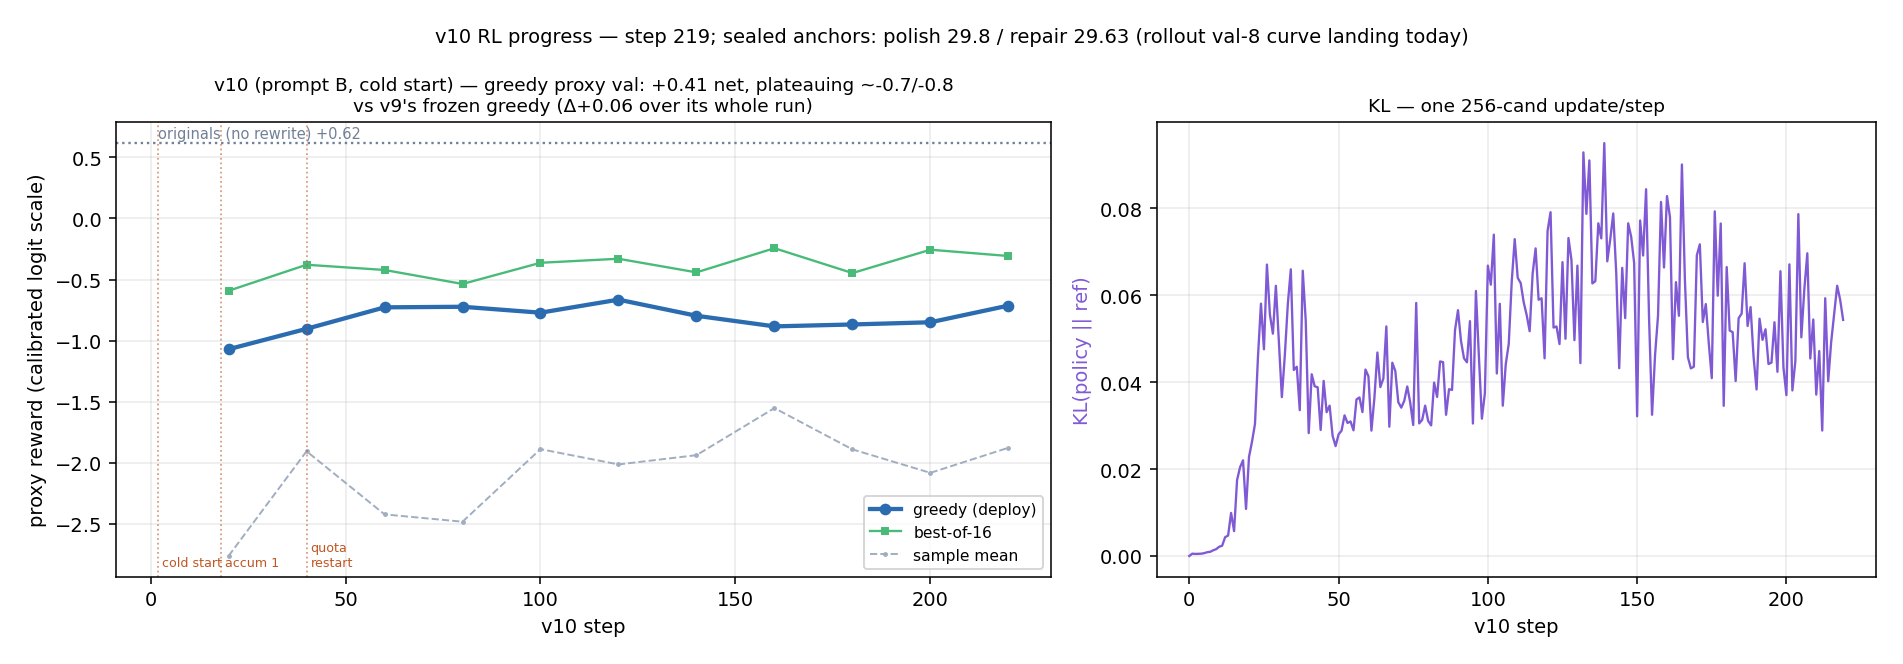
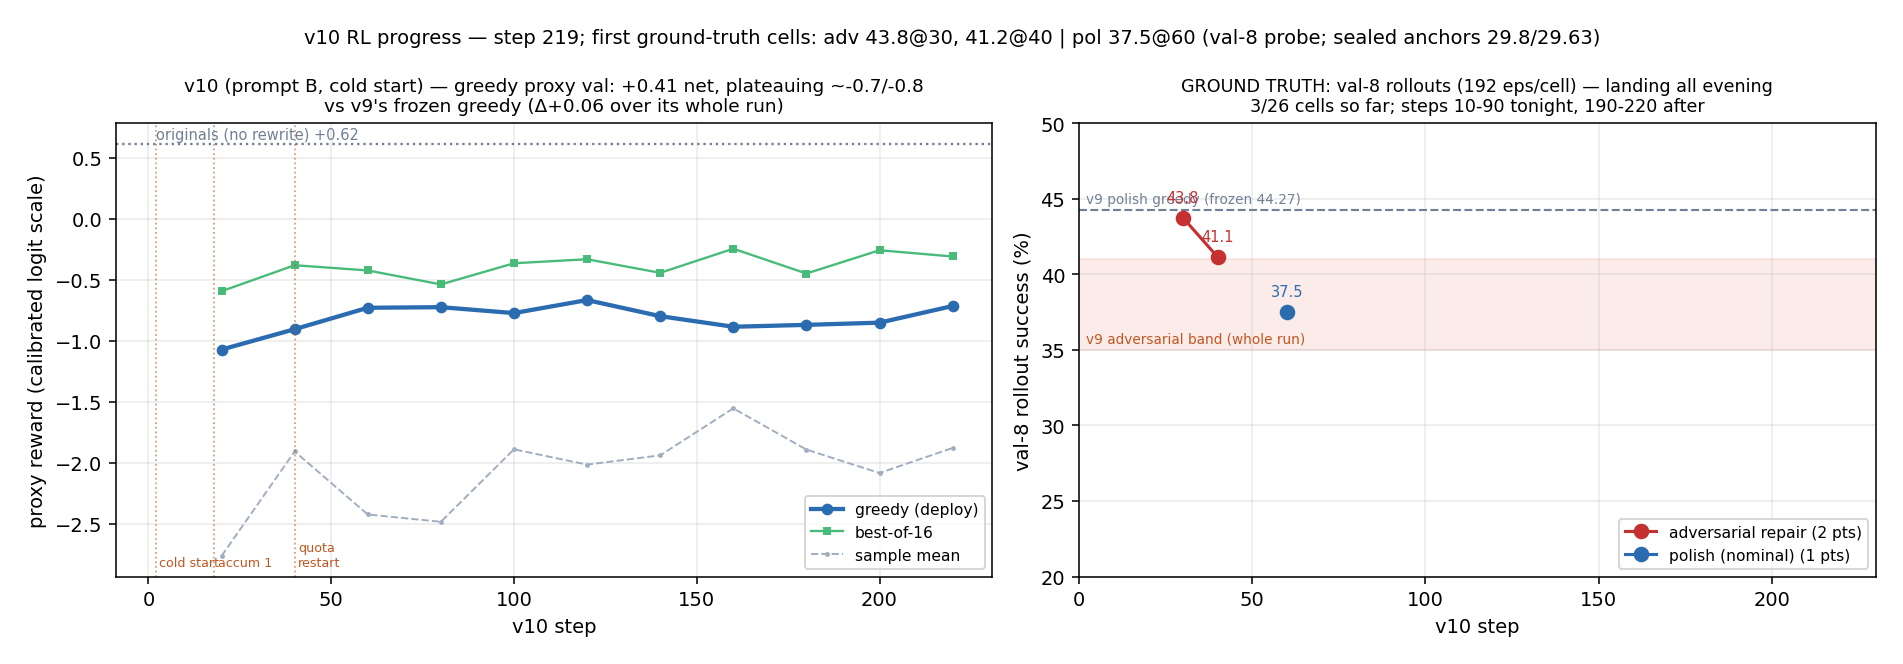
v10 progress chart: first ground-truth rollout cells (adv 43.8@30/41.2@40, pol 37.5@60)

diff --git a/scripts/make_v10_progress.py b/scripts/make_v10_progress.py
@@ -14,7 +14,9 @@ rows = [json.loads(l) for l in open(LOG)]
 vals = sorted((r for r in rows if r.get("type") == "val"), key=lambda r: r["step"])
 tr = sorted((r for r in rows if r.get("kl") is not None), key=lambda r: r["step"])
 
-fig, (a1, a2) = plt.subplots(1, 2, figsize=(13.5, 4.6), gridspec_kw={"width_ratios": [1.3, 1]})
+import glob
+cells = [json.load(open(f)) for f in glob.glob("results/analysis/v10cells/*.json")]
+fig, (a1, a2) = plt.subplots(1, 2, figsize=(13.5, 4.6), gridspec_kw={"width_ratios": [1.1, 1]})
 
 s = [v["step"] for v in vals]
 a1.axhline(vals[0]["mean_orig_reward"], ls=":", color="#718096", lw=1.2)
@@ -35,14 +37,25 @@ a1.set_title("v10 (prompt B, cold start) — greedy proxy val: +0.41 net, platea
 a1.legend(fontsize=8, loc="lower right")
 a1.grid(alpha=0.25)
 
-ts = [d["step"] for d in tr]
-a2.plot(ts, [d["kl"] for d in tr], color="#805ad5", lw=1.2)
+a2.axhspan(35, 41, color="#e2725b", alpha=0.13)
+a2.text(2, 35.5, "v9 adversarial band (whole run)", fontsize=7, color="#c05621")
+a2.axhline(44.27, ls="--", color="#718096", lw=1.1)
+a2.text(2, 44.7, "v9 polish greedy (frozen 44.27)", fontsize=7, color="#718096")
+for cond, color, lbl in [("v10_adv", "#c53030", "adversarial repair"), ("v10_pol", "#2b6cb0", "polish (nominal)")]:
+    pts = sorted([(c["step"], c["pooled"]) for c in cells if c["probe"] == cond])
+    if pts:
+        a2.plot([p[0] for p in pts], [p[1] for p in pts], "o-", color=color, ms=7, lw=1.6, label=f"{lbl} ({len(pts)} pts)")
+        for x, y in pts:
+            a2.annotate(f"{y:.1f}", (x, y), textcoords="offset points", xytext=(0, 8), fontsize=7.5, ha="center", color=color)
+a2.set_xlim(0, 230)
+a2.set_ylim(20, 50)
 a2.set_xlabel("v10 step")
-a2.set_ylabel("KL(policy || ref)", color="#805ad5")
-a2.set_title("KL — one 256-cand update/step", fontsize=9.5)
+a2.set_ylabel("val-8 rollout success (%)")
+a2.set_title("GROUND TRUTH: val-8 rollouts (192 eps/cell) — landing all evening\n3/26 cells so far; steps 10-90 tonight, 190-220 after", fontsize=9)
+a2.legend(fontsize=8, loc="lower right")
 a2.grid(alpha=0.25)
 
-fig.suptitle("v10 RL progress — step %d; sealed anchors: polish 29.8 / repair 29.63 (rollout val-8 curve landing today)"
+fig.suptitle("v10 RL progress — step %d; first ground-truth cells: adv 43.8@30, 41.2@40 | pol 37.5@60 (val-8 probe; sealed anchors 29.8/29.63)"
              % tr[-1]["step"], fontsize=10)
 fig.tight_layout()
 fig.savefig("results/charts/v10_progress.png", dpi=140, bbox_inches="tight", pad_inches=0.2)
